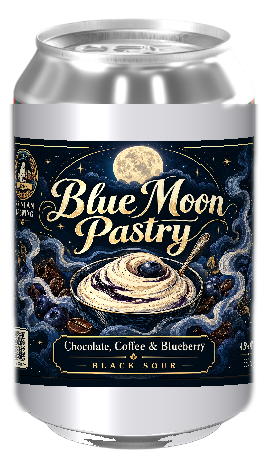
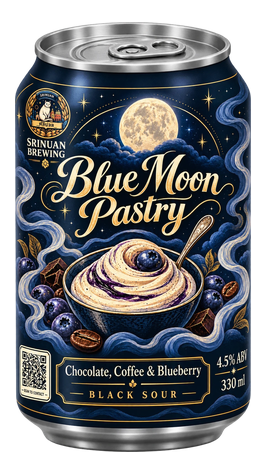
Swap in the full-wrap can renders for nine beers
IPA, Apple Cider, Blue Moon Pastry, Cali Mead, Corona-Khon, Honey & Lime
Mead, Mangosteen Mead, Midnight and Som-Som now use the owner's new
full-wrap can renders in place of the sticker-on-silver mockups, trimmed
and sized to the same 267x468 frame as the other cans. Asset version v=51.

diff --git a/index.html b/index.html
@@ -21,7 +21,7 @@
 <link rel="preconnect" href="https://fonts.googleapis.com">
 <link rel="preconnect" href="https://fonts.gstatic.com" crossorigin>
 <link href="https://fonts.googleapis.com/css2?family=Cinzel:wght@600;700;900&family=Kanit:wght@300;400;500;600;700&display=swap" rel="stylesheet">
-<link rel="stylesheet" href="css/style.css?v=50">
+<link rel="stylesheet" href="css/style.css?v=51">
 </head>
 <body>
 
@@ -183,8 +183,8 @@
   <div class="modal__card" id="modal-card"></div>
 </div>
 
-<script src="js/products.js?v=50"></script>
-<script src="js/script.js?v=50"></script>
+<script src="js/products.js?v=51"></script>
+<script src="js/script.js?v=51"></script>
 <!-- Cloudflare Web Analytics --><script type='module' src='https://static.cloudflareinsights.com/beacon.min.js' data-cf-beacon='{"token": "11c3134f9000445daf03bdaf63dba18e"}'></script><!-- End Cloudflare Web Analytics -->
 </body>
 </html>

diff --git a/admin.html b/admin.html
@@ -6,7 +6,7 @@
 <title>Admin | Srinuan Brewing</title>
 <meta name="robots" content="noindex, nofollow">
 <link href="https://fonts.googleapis.com/css2?family=Cinzel:wght@600;700;900&family=Kanit:wght@300;400;500;600;700&display=swap" rel="stylesheet">
-<link rel="stylesheet" href="css/style.css?v=50">
+<link rel="stylesheet" href="css/style.css?v=51">
 <style>
   body { min-height: 100vh; }
   .admin-wrap { max-width: 720px; margin: 0 auto; padding: 60px 24px 100px; }
@@ -154,7 +154,7 @@
   <div class="admin-logout"><a id="logout-link">Log out</a></div>
 </div>
 
-<script src="js/products.js?v=50"></script>
+<script src="js/products.js?v=51"></script>
 <script>
 (function () {
   "use strict";

diff --git a/privacy.html b/privacy.html
@@ -6,7 +6,7 @@
 <title>นโยบายความเป็นส่วนตัว | Srinuan Brewing</title>
 <link rel="icon" href="images/logo.png">
 <link href="https://fonts.googleapis.com/css2?family=Cinzel:wght@600;700;900&family=Kanit:wght@300;400;500;600;700&display=swap" rel="stylesheet">
-<link rel="stylesheet" href="css/style.css?v=50">
+<link rel="stylesheet" href="css/style.css?v=51">
 <style>
   body { min-height: 100vh; }
   .doc-wrap { max-width: 760px; margin: 0 auto; padding: 60px 24px 100px; }

diff --git a/pay.html b/pay.html
@@ -7,7 +7,7 @@
 <title>ชำระเงิน | Srinuan Brewing</title>
 <link rel="icon" href="images/logo.png">
 <link href="https://fonts.googleapis.com/css2?family=Cinzel:wght@600;700;900&family=Kanit:wght@300;400;500;600;700&display=swap" rel="stylesheet">
-<link rel="stylesheet" href="css/style.css?v=50">
+<link rel="stylesheet" href="css/style.css?v=51">
 <style>
   body { min-height: 100vh; }
   .pay-wrap { max-width: 520px; margin: 0 auto; padding: 70px 24px 100px; }

diff --git a/track.html b/track.html
@@ -6,7 +6,7 @@
 <title>Track Your Order | Srinuan Brewing</title>
 <link rel="icon" href="images/logo.png">
 <link href="https://fonts.googleapis.com/css2?family=Cinzel:wght@600;700;900&family=Kanit:wght@300;400;500;600;700&display=swap" rel="stylesheet">
-<link rel="stylesheet" href="css/style.css?v=50">
+<link rel="stylesheet" href="css/style.css?v=51">
 <style>
   body { min-height: 100vh; }
   .track-wrap { max-width: 520px; margin: 0 auto; padding: 70px 24px 100px; }
